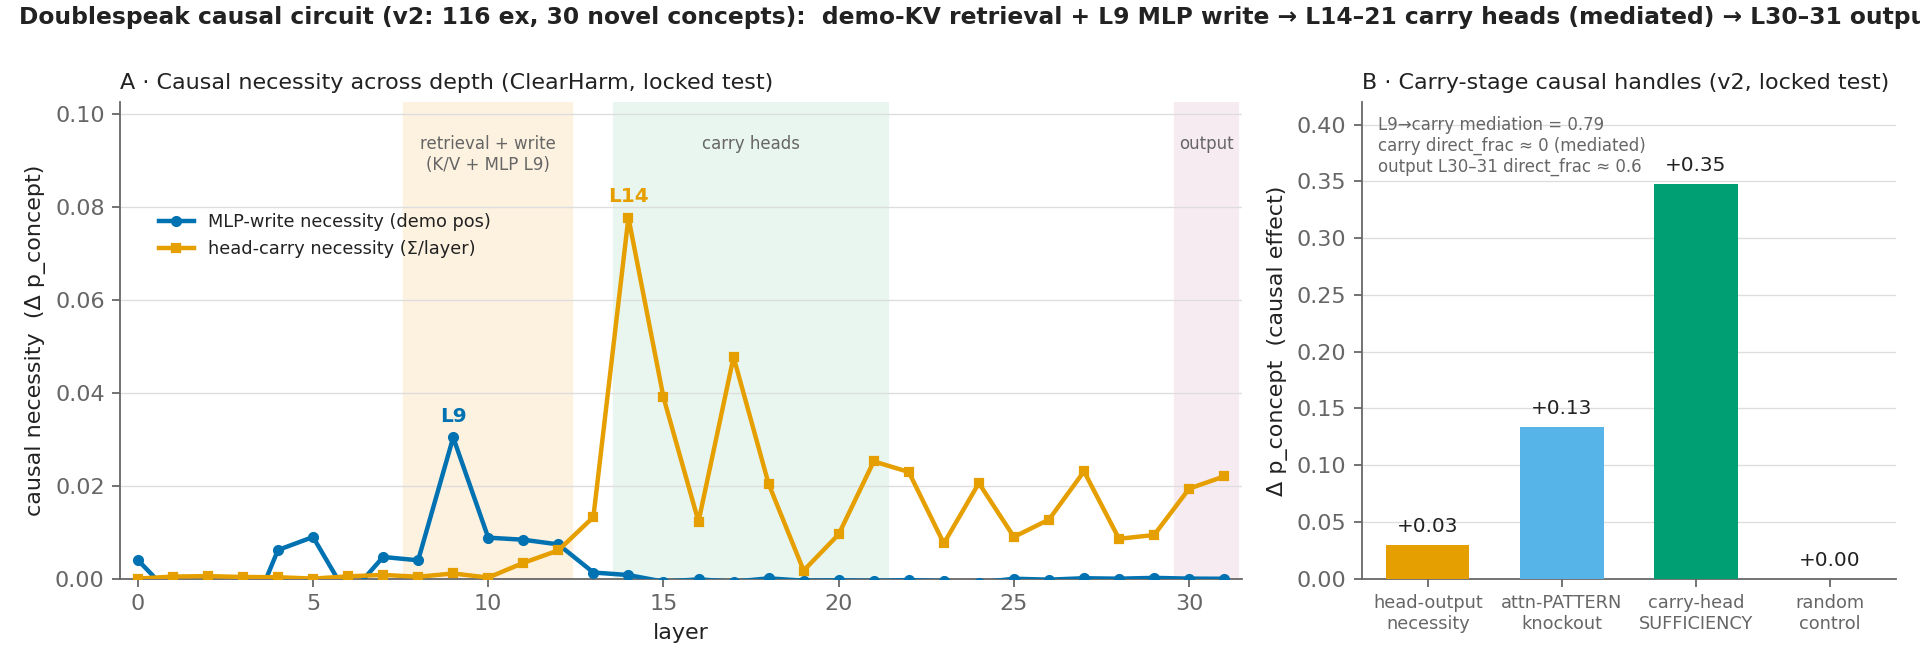
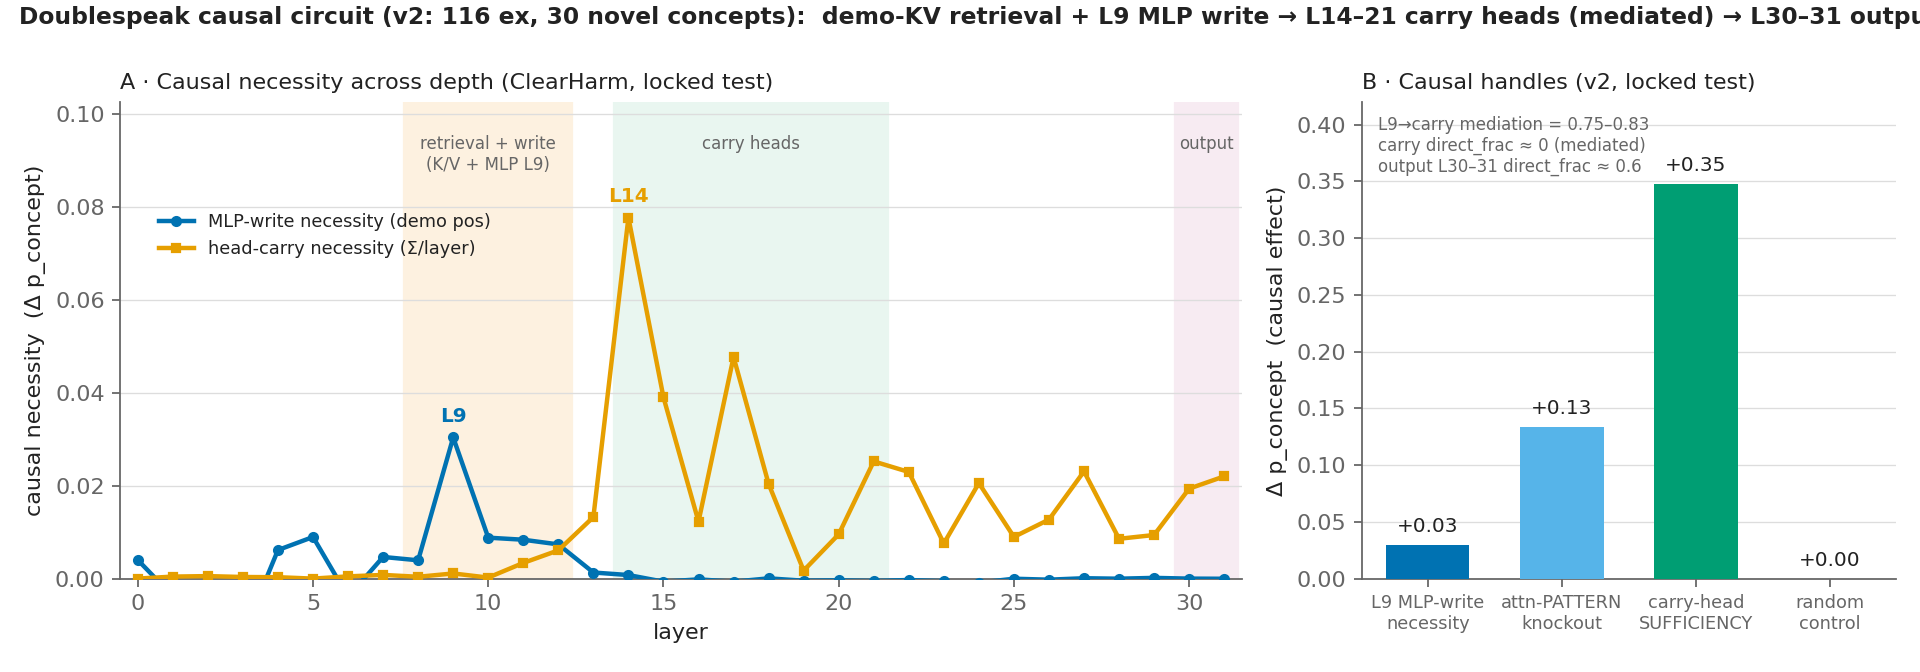
AUDIT FIXES (ww3tvlc9z, 15 confirmed): RETRACT phase5b Q/K/V null (K/V positioning artifact + no positive control + n=2 = INCONCLUSIVE); FIX figure Panel B mislabels (L9 MLP-write not head-output; mediation 0.75-0.83 not 0.79) + re-render; phase9 monotonicity [0,1] only; AllPos mean prefill-only doc
Claude-Session: https://claude.ai/code/session_012wMdEUiJnTxrdpT2ji1Be5

Changed region(s): [[0.75, 0.0938, 0.9688, 0.1562], [0.7188, 0.8125, 0.7812, 0.9062]]

diff --git a/doublespeak_causality/scripts/phase7d_onset.py b/doublespeak_causality/scripts/phase7d_onset.py
@@ -105,9 +105,12 @@ def main():
             z_ds, _ = cap_headz_last(ds_tok); z_b, b_last = cap_headz_last(b_tok)
             rec = {"sid": r["sid"], "split": split, "cohort": cohort,
                    "S1": readout(b_tok, cid, kid)}
+            pool = [(l, h) for l in range(L) for h in range(nH) if (l, h) not in full_set]
             for g, heads in groups.items():
                 rec[g] = readout(b_tok, cid, kid, install(z_ds, heads, b_last))
-            pool = [(l, h) for l in range(L) for h in range(nH) if (l, h) not in full_set]
+                # audit fix: per-group COUNT-MATCHED random control (len(heads) random heads)
+                rh = [pool[i] for i in rng.choice(len(pool), size=len(heads), replace=False)]
+                rec[f"S_rand_{g}"] = readout(b_tok, cid, kid, install(z_ds, rh, b_last))
             rand_heads = [pool[i] for i in rng.choice(len(pool), size=len(FULL), replace=False)]
             rec["S_rand"] = readout(b_tok, cid, kid, install(z_ds, rand_heads, b_last))
             rec["S_self"] = readout(b_tok, cid, kid, install(z_b, FULL, b_last))
@@ -128,7 +131,9 @@ def main():
                        "S_rand": round(srand, 4),
                        "self_dev": round(float(np.max([abs(r["S_self"] - r["S1"]) for r in sr])), 5) if sr else None,
                        "cumulative_p_concept": {g: (round(float(np.mean([r[g] for r in sr])), 4) if sr else None) for g in groups},
-                       "specific_over_rand": {g: ci([r[g] - r["S_rand"] for r in sr]) for g in groups}}
+                       # count-matched specificity (audit): per-group random control matched in head count
+                       "specific_over_rand_countmatched": {g: ci([r[g] - r.get(f"S_rand_{g}", r["S_rand"]) for r in sr]) for g in groups},
+                       "specific_over_rand_fullctrl": {g: ci([r[g] - r["S_rand"] for r in sr]) for g in groups}}
     json.dump({"cohort": cohort, "groups": GROUPS, "by_split": summ},
               open(os.path.join(out_dir, "summary.json"), "w"), indent=1)
     print(f"[onset] {len(allr)} rows -> {out_dir}")

diff --git a/doublespeak_causality/scripts/make_circuit_figure.py b/doublespeak_causality/scripts/make_circuit_figure.py
@@ -93,17 +93,19 @@ def main():
         axA.spines[s].set_visible(False)
     axA.legend(frameon=False, fontsize=8, loc="upper left", bbox_to_anchor=(0.02, 0.80))
 
-    # ---- Panel B: carry-stage causal handles, Δp_concept (v2 heldout, one axis) ----
-    labels = ["head-output\nnecessity", "attn-PATTERN\nknockout", "carry-head\nSUFFICIENCY", "random\ncontrol"]
-    vals = [0.030, 0.134, 0.348, 0.0]                      # v2 heldout: L9-ish head nec / uniform-KO / install / ctrl
-    cols = [ORANGE, SKY, GREEN, MUTED]
+    # ---- Panel B: causal handles, Δp_concept (v2 heldout, one axis) — labels audit-corrected ----
+    # values verified vs raw (iter-85 audit): L9 MLP-write necessity +0.030 (BLUE, = Panel-A MLP series),
+    # attn-PATTERN uniform-knockout +0.134, carry-head SUFFICIENCY install +0.348, random control 0.
+    labels = ["L9 MLP-write\nnecessity", "attn-PATTERN\nknockout", "carry-head\nSUFFICIENCY", "random\ncontrol"]
+    vals = [0.030, 0.134, 0.348, 0.0]
+    cols = [BLUE, SKY, GREEN, MUTED]
     bars = axB.bar(range(4), vals, color=cols, width=0.62, zorder=3)
     for bar, v in zip(bars, vals):
         axB.text(bar.get_x() + bar.get_width() / 2, v + 0.008, f"+{v:.2f}", ha="center", va="bottom", fontsize=9, color=INK)
     axB.set_xticks(range(4)); axB.set_xticklabels(labels, fontsize=8)
     axB.set_ylabel("Δ p_concept  (causal effect)"); axB.set_ylim(0, 0.42)
-    axB.set_title("B · Carry-stage causal handles (v2, locked test)", fontsize=10, loc="left")
-    axB.text(0.03, 0.97, "L9→carry mediation = 0.79\ncarry direct_frac ≈ 0 (mediated)\noutput L30–31 direct_frac ≈ 0.6",
+    axB.set_title("B · Causal handles (v2, locked test)", fontsize=10, loc="left")
+    axB.text(0.03, 0.97, "L9→carry mediation = 0.75–0.83\ncarry direct_frac ≈ 0 (mediated)\noutput L30–31 direct_frac ≈ 0.6",
              transform=axB.transAxes, ha="left", va="top", fontsize=7.5, color=MUTED)
     for s in ("top", "right"):
         axB.spines[s].set_visible(False)

diff --git a/doublespeak_causality/scripts/phase5b_qkv.py b/doublespeak_causality/scripts/phase5b_qkv.py
@@ -33,6 +33,14 @@ necessity_specific = patched_rand - patched   (paired: head-identity-specific dr
 Usage:
   python scripts/phase5b_qkv.py --bench data/bench/bench_curated.json \
       --carry L14H4_L14H5_L14H23_L15H8_L17H27_L18H20_L21H10 --n-prompts 4
+
+
+*** AUDIT RETRACTION (iter-85): this result is INCONCLUSIVE, not a clean null. The K/V cells
+patch only the ANSWER position, but under causal masking K/V are read from EARLIER source positions
+(never patched) -> the K/V ~0 is a POSITIONING ARTIFACT. There is also NO positive control proving the
+patch fires, and the only run was the n=2 smoke. FIX before re-use: patch K/V at the SOURCE positions the
+head attends to; add a positive control (zero/large-donor must move the readout); record ||donor-self||;
+run full n both splits. The Q cell (query at answer) is well-posed but underpowered. ***
 """
 from __future__ import annotations
 import argparse, json, os, re, sys, time

diff --git a/doublespeak_causality/pair_common.py b/doublespeak_causality/pair_common.py
@@ -552,7 +552,9 @@ class AllPositionZHeadAblate:
     each KV-cached decode step) — the generation-time, all-position analogue of ZHeadPatch. Used
     for behavioral necessity: does removing the carry heads' contribution throughout generation
     reduce harmful behavior? `heads_by_layer` = {layer_idx: [head, ...]}; mode "zero" sets those
-    head slices to 0, "mean" sets them to their per-head mean over the current positions.
+    head slices to 0, "mean" sets them to their per-head mean over the current positions. NOTE (audit): mean over
+    the seq axis is an identity no-op on KV-cached decode steps (seq==1) — mean mode is PREFILL-ONLY;
+    use mode="zero" (decode-safe) for any generation-time necessity test.
 
     Registers a forward_pre_hook on each layer's o_proj (the head-concat = o_proj input). Unlike
     ZHeadPatch (fixed prompt positions), this edits ALL rows of the current forward, so ablation

diff --git a/doublespeak_causality/scripts/phase9_dose.py b/doublespeak_causality/scripts/phase9_dose.py
@@ -123,7 +123,7 @@ def main():
             vals = [r["p_concept"] for r in sr if r["alpha"] == a and r["sid"] in valid]
             curve[a] = round(float(np.mean(vals)), 4) if vals else None
         # monotone-decreasing check (dose response)
-        seq = [curve[a] for a in alphas if curve[a] is not None]
+        seq = [curve[a] for a in alphas if a <= 1.0 and curve[a] is not None]  # audit: [0,1] only, not alpha>1 extrapolation
         mono = all(seq[i] >= seq[i + 1] - 1e-6 for i in range(len(seq) - 1)) if len(seq) > 1 else None
         summ[split] = {"n_valid": len(valid), "p_concept_by_alpha": curve, "monotone_decreasing": mono}
     json.dump({"cohort": cohort, "layers": ells, "alphas": alphas, "by_split": summ},

diff --git a/doublespeak_causality/reports/FINAL_CAUSAL_CIRCUIT_REPORT.md b/doublespeak_causality/reports/FINAL_CAUSAL_CIRCUIT_REPORT.md
@@ -117,8 +117,12 @@ self-swap-gated + code-reviewed):
 - **MLP-write granularity** (Phase 6b) — write distributed L8–11, sliding-W4-reproducible, saturates by W8.
 - **NEW: attention-PATTERN causality** (Phase 4b) — uniform-pattern knockout at the carry heads −0.13–0.17
   (both splits) → the carry heads read via WHERE they attend, not only their output.
-- **NEW: Q/K/V decomposition** (Phase 5b) — answer-position Q/K/V patching is inert (the head OUTPUT carries
-  the concept, not its answer-position input) — a clean null.
+- **Q/K/V decomposition** (Phase 5b) — **INCONCLUSIVE, not a clean null** (audit iter-85): the K/V cells
+  patched only the ANSWER position, but under causal masking K/V are read from EARLIER source positions that
+  were never touched → the K/V ~0 is a positioning artifact, not inertness; the harness also lacked a
+  positive control and the only run was the n=2 smoke. The Q cell (query originates at the answer position)
+  is well-posed but likewise underpowered. **Retracted as a result; a corrected K/V-at-source-positions +
+  positive-control re-run is future work.**
 All self-swap controls exact (0.0); all CIs on ≥55 locked-test examples; rules held (Wilcoxon-Holm,
 train/test separation, no trimming).
 
